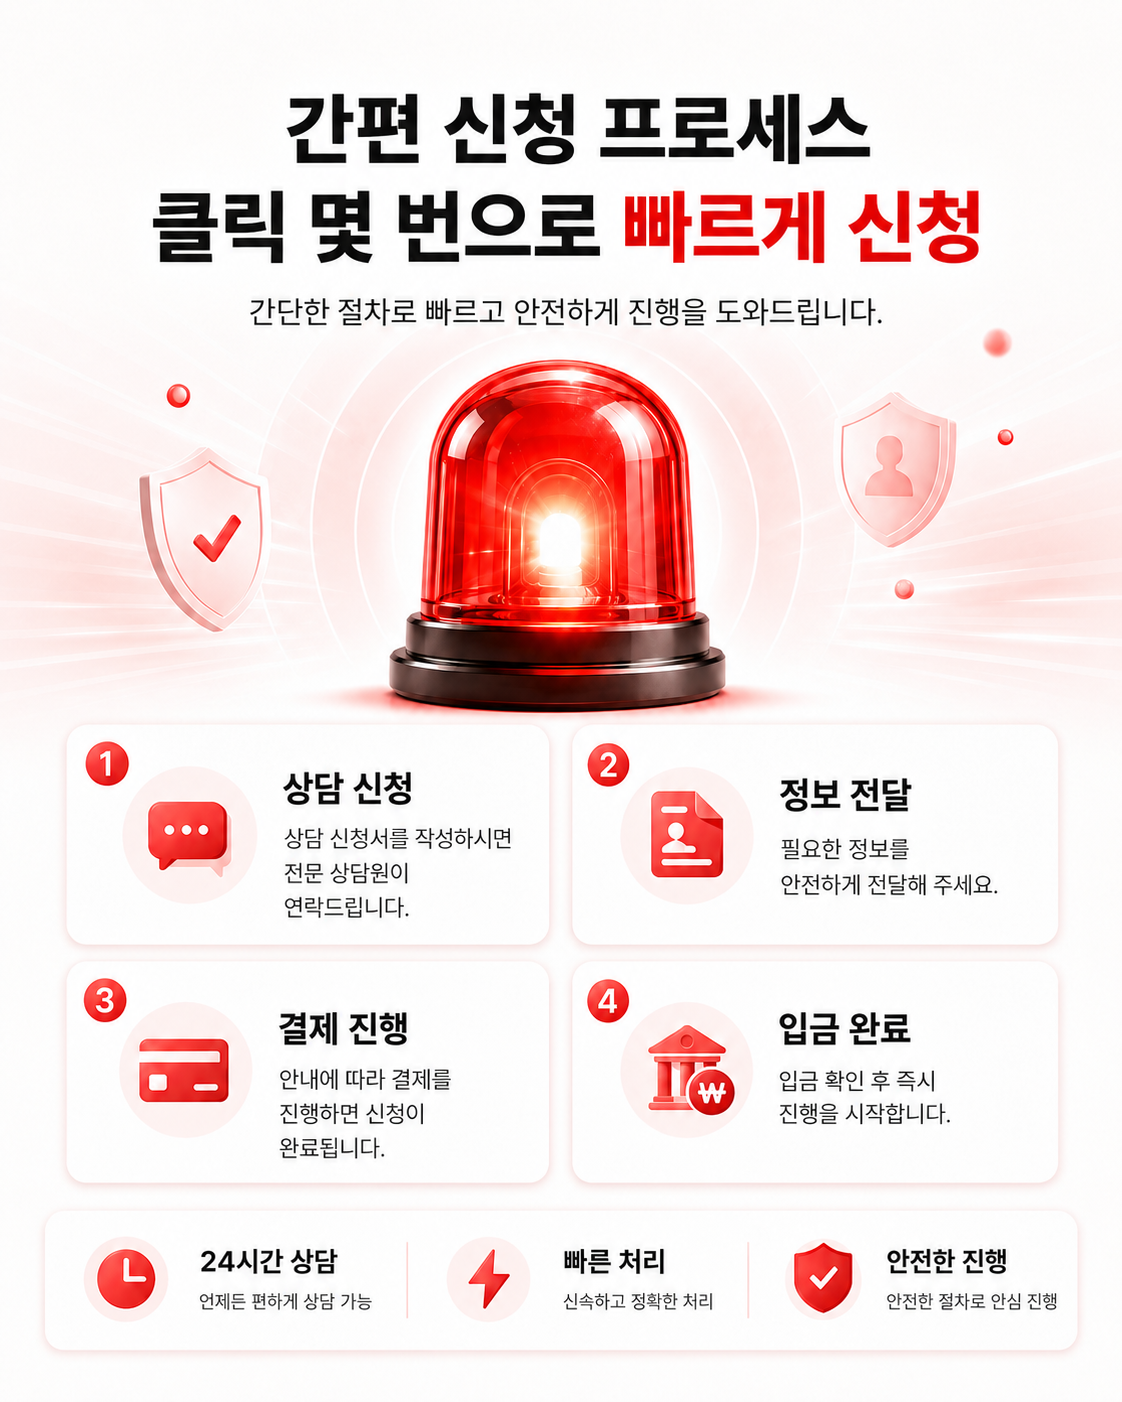
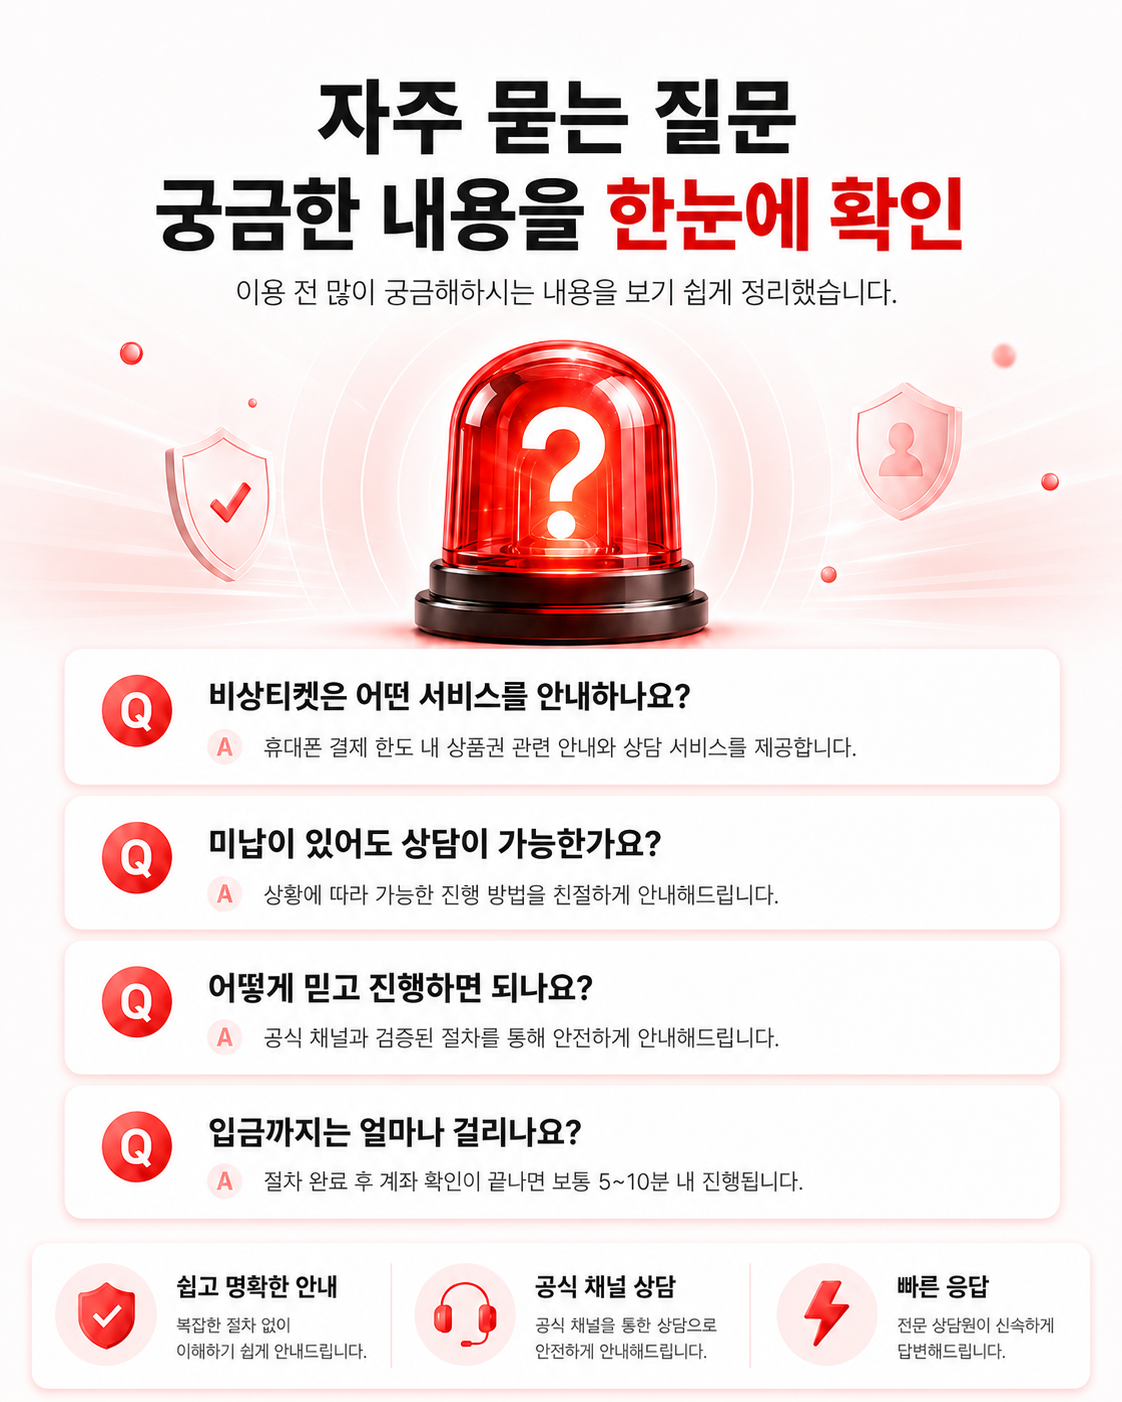
Add files via upload

diff --git a/styles.css b/styles.css
@@ -35,7 +35,7 @@ body {
 
 .header-inner {
   display: grid;
-  grid-template-columns: auto minmax(170px, 320px);
+  grid-template-columns: minmax(140px, 230px) minmax(160px, 300px);
   align-items: center;
   justify-content: space-between;
   gap: clamp(10px, 2vw, 22px);
@@ -55,41 +55,28 @@ body {
 }
 
 .header-logo {
-  gap: 8px;
-  color: #151515;
-  font-size: clamp(18px, 3vw, 28px);
-  font-weight: 950;
-  letter-spacing: -0.06em;
+  justify-self: start;
 }
 
-.logo-mark {
-  display: inline-grid;
-  place-items: center;
-  width: clamp(30px, 5vw, 42px);
-  height: clamp(30px, 5vw, 42px);
-  border-radius: 14px;
-  background: #fff0f0;
-  box-shadow: inset 0 0 0 1px rgba(221, 29, 29, 0.16);
+.header-logo img {
+  display: block;
+  width: min(100%, 190px);
+  height: auto;
 }
 
 .header-kakao {
-  gap: 10px;
-  min-height: clamp(48px, 7vw, 62px);
-  padding: 10px 18px;
-  color: rgba(42, 27, 0, 0.9);
-  font-size: clamp(15px, 2vw, 19px);
-  font-weight: 950;
-  letter-spacing: -0.04em;
-  border: 2px dashed rgba(58, 29, 29, 0.22);
-  border-radius: 18px;
-  background: linear-gradient(135deg, #fee500 0%, #fff1a8 100%);
-  box-shadow: 0 8px 18px rgba(65, 42, 0, 0.14);
+  justify-self: end;
+  padding: 0;
+  border: 0;
+  border-radius: 0;
+  background: transparent;
+  box-shadow: none;
 }
 
 .header-kakao img {
   display: block;
-  width: 26px;
-  height: 26px;
+  width: min(100%, 300px);
+  height: auto;
 }
 
 .image-section {
@@ -255,14 +242,14 @@ body {
 .kakao-icon,
 .floating-kakao-icon {
   border-radius: 50%;
-  background: rgba(0, 0, 0, 0.08);
+  background: rgba(255, 255, 255, 0.28);
 }
 
 .kakao-icon img,
 .floating-kakao-icon img {
   display: block;
-  width: 70%;
-  height: 70%;
+  width: 82%;
+  height: 82%;
   object-fit: contain;
 }
 
@@ -283,26 +270,26 @@ body {
 
 .floating-kakao {
   position: fixed;
-  right: max(16px, calc((100vw - 1122px) / 2 + 18px));
-  bottom: 28px;
+  right: 24px;
+  bottom: 24px;
   z-index: 50;
   display: flex;
-  flex-direction: column;
+  flex-direction: row;
   align-items: center;
   justify-content: center;
-  gap: 6px;
-  width: 82px;
-  height: 82px;
-  padding: 10px;
+  gap: 9px;
+  min-width: 128px;
+  height: 56px;
+  padding: 10px 17px 10px 11px;
   color: #2b1b00;
   font-weight: 900;
-  font-size: 13px;
+  font-size: 15px;
   letter-spacing: -0.04em;
   text-decoration: none;
-  border-radius: 28px;
+  border-radius: 999px;
   background: #fee500;
   border: 1px solid rgba(58, 29, 29, 0.12);
-  box-shadow: 0 14px 32px rgba(61, 24, 24, 0.24);
+  box-shadow: 0 12px 28px rgba(61, 24, 24, 0.24);
   transition: transform 0.18s ease, box-shadow 0.18s ease;
 }
 
@@ -313,9 +300,9 @@ body {
 }
 
 .floating-kakao-icon {
-  width: 40px;
-  height: 40px;
-  background: rgba(0, 0, 0, 0.10);
+  width: 36px;
+  height: 36px;
+  background: rgba(255, 255, 255, 0.28);
 }
 
 @media (max-width: 680px) {
@@ -328,7 +315,7 @@ body {
   }
 
   .header-inner {
-    grid-template-columns: 1fr auto;
+    grid-template-columns: minmax(112px, 1fr) minmax(120px, 42vw);
   }
 
   .contact-actions {
@@ -342,13 +329,14 @@ body {
   .floating-kakao {
     right: 12px;
     bottom: 12px;
-    width: 74px;
-    height: 74px;
-    font-size: 12px;
+    min-width: 112px;
+    height: 50px;
+    padding: 8px 13px 8px 9px;
+    font-size: 13px;
   }
 
   .floating-kakao-icon {
-    width: 34px;
-    height: 34px;
+    width: 32px;
+    height: 32px;
   }
 }

diff --git a/index.html b/index.html
@@ -12,12 +12,10 @@
   <header class="site-header" aria-label="비상티켓 헤더 영역">
     <div class="header-inner">
       <a class="header-logo" href="#" aria-label="비상티켓 홈">
-        <span class="logo-mark" aria-hidden="true">🚨</span>
-        <span>비상티켓</span>
+        <img src="logo.png" alt="비상티켓">
       </a>
       <a class="header-kakao" href="#" aria-label="카카오톡 상담 이미지 교체 영역">
-        <img src="assets/kakaotalk.svg" alt="" aria-hidden="true">
-        <span>카톡 상담</span>
+        <img src="우측상단.png" alt="카카오톡 상담">
       </a>
     </div>
   </header>
@@ -37,7 +35,7 @@
         <h2>원하는 방식으로 빠르게 문의하세요</h2>
         <div class="contact-actions">
           <a class="contact-button kakao" href="#" aria-label="카카오톡 상담하기">
-            <span class="icon kakao-icon" aria-hidden="true"><img src="assets/kakaotalk.svg" alt=""></span>
+            <span class="icon kakao-icon" aria-hidden="true"><img src="kakao.png" alt=""></span>
             <span>
               <strong>카톡 상담하기</strong>
               <em>간편하게 문의</em>
@@ -92,19 +90,13 @@
       <p class="seo-text">자주 묻는 질문: 비상티켓 서비스 안내, 미납 상담 가능 여부, 안전한 진행 방법, 입금 소요 시간, 신고 명확한 안내, 공식 채널 상담, 빠른 응답.</p>
     </section>
 
-    <section class="image-section" aria-labelledby="section-8-title">
-      <h2 id="section-8-title" class="visually-hidden">스미싱 예방방법 안내</h2>
-      <img src="8.png" alt="스미싱 예방방법 안내. 출처 불분명한 링크 클릭 금지, 개인정보 인증번호 요구 주의, 공식 채널로만 상담 진행, 의심 문자 즉시 차단 및 신고" loading="lazy">
-      <p class="seo-text">스미싱 예방방법 안내: 출처 불분명한 링크 클릭 금지, 개인정보와 인증번호 요구 주의, 공식 채널로만 상담 진행, 의심 문자 즉시 차단 및 신고. 비상티켓은 비밀번호나 민감한 계정정보를 요구하지 않습니다.</p>
-    </section>
-
     <section class="contact-band final" aria-label="마지막 상담 바로가기">
       <div class="contact-card">
         <p class="eyebrow">상담이 필요하신가요?</p>
         <h2>카카오톡 또는 전화로 문의하세요</h2>
         <div class="contact-actions">
           <a class="contact-button kakao" href="#" aria-label="카카오톡 상담하기">
-            <span class="icon kakao-icon" aria-hidden="true"><img src="assets/kakaotalk.svg" alt=""></span>
+            <span class="icon kakao-icon" aria-hidden="true"><img src="kakao.png" alt=""></span>
             <span>
               <strong>카톡 상담하기</strong>
               <em>상담 채널 연결</em>
@@ -125,7 +117,7 @@
   </main>
 
   <a class="floating-kakao" href="#" aria-label="카카오톡 연결하기">
-    <span class="floating-kakao-icon" aria-hidden="true"><img src="assets/kakaotalk.svg" alt=""></span>
+    <span class="floating-kakao-icon" aria-hidden="true"><img src="kakao.png" alt=""></span>
     <span>카톡상담</span>
   </a>
 </body>